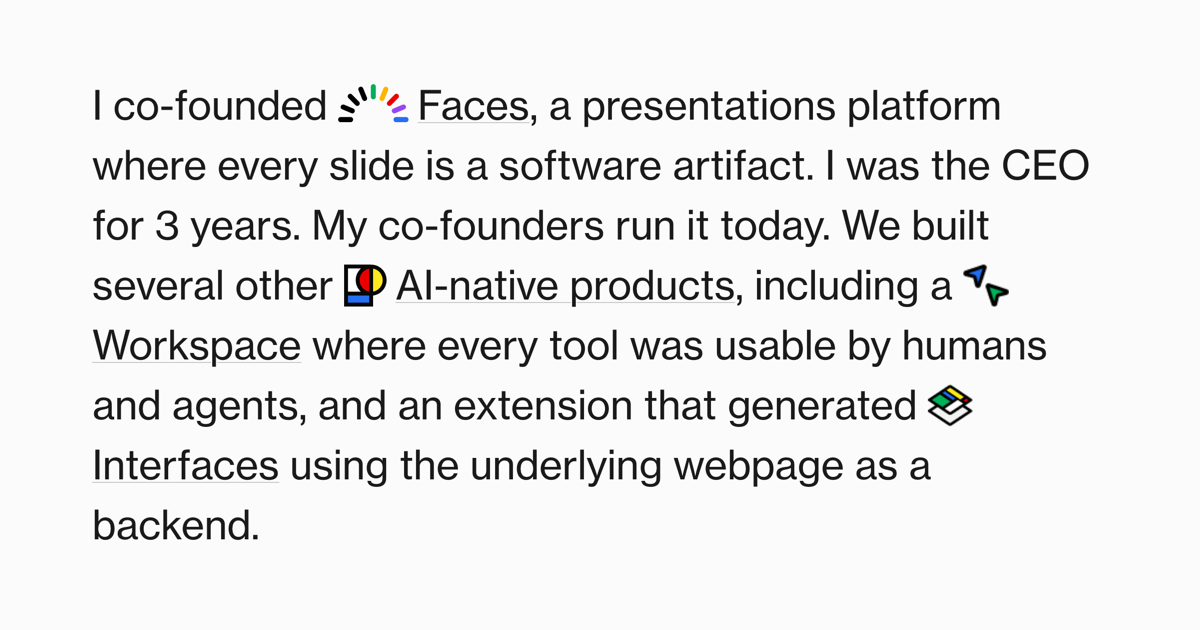
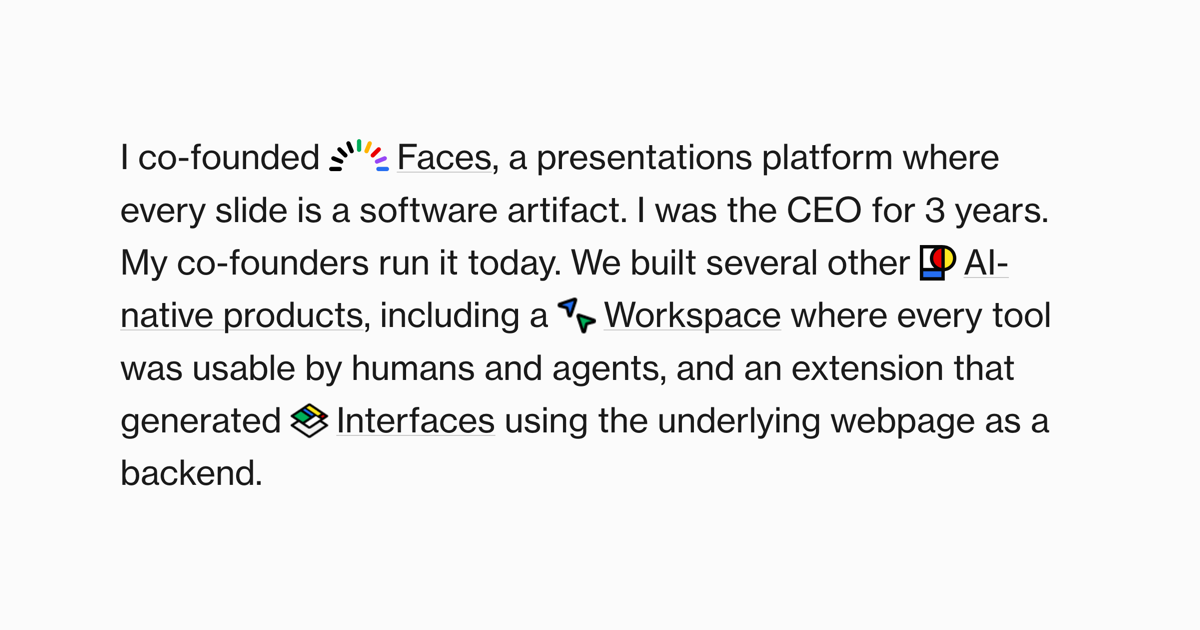
More breathing room in the preview image

Changed region(s): [[0.0617, 0.1206, 0.925, 0.6937], [0.0617, 0.7238, 0.7708, 0.7841], [0.0617, 0.8143, 0.2158, 0.8746]]

diff --git a/og.html b/og.html
@@ -11,11 +11,11 @@
   <style>
     html, body { width: 1200px; height: 630px; overflow: hidden; }
     body {
-      font-size: 40px;
-      line-height: 1.5;
+      font-size: 34px;
+      line-height: 1.55;
       display: flex;
       align-items: center;
-      padding: 0 92px;
+      padding: 0 120px;
     }
   </style>
 </head>
